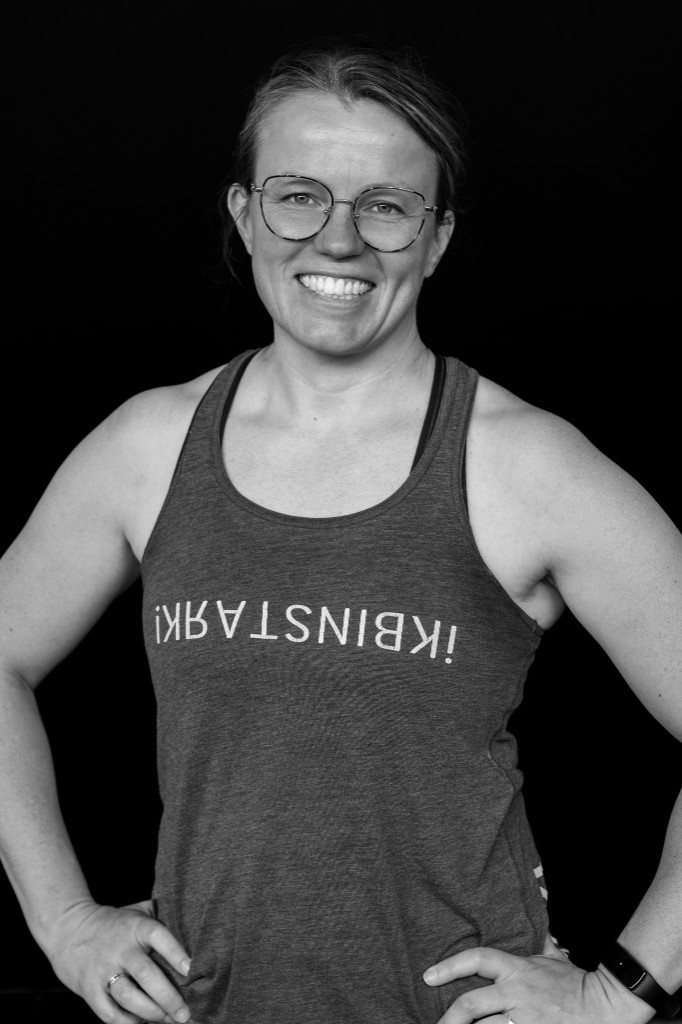
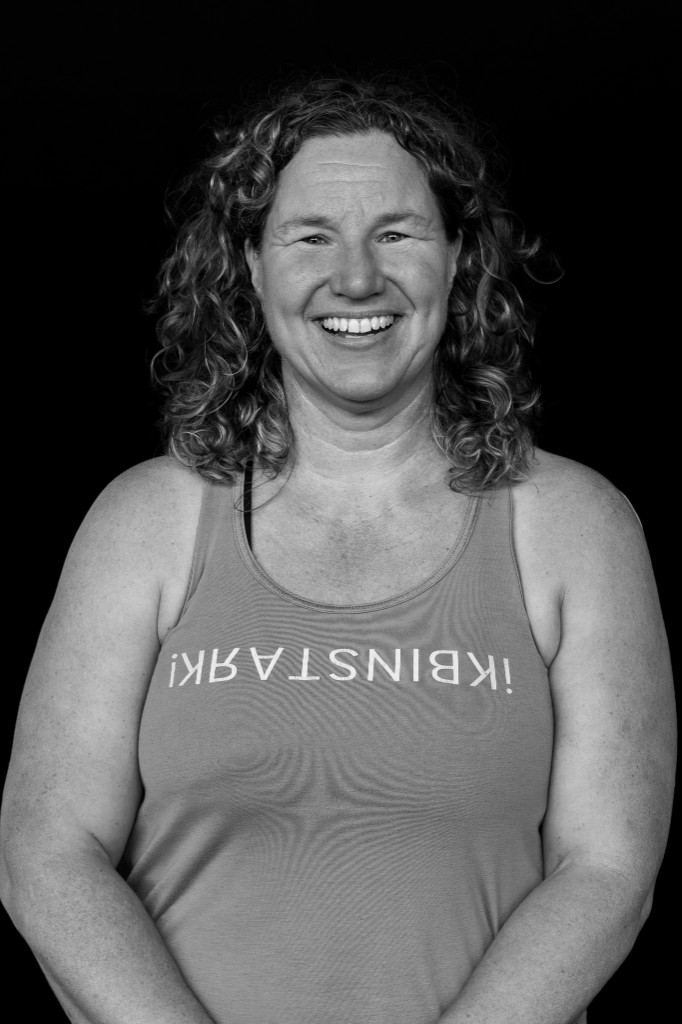
team: portretbestand hoort bij de persoon

diff --git a/app/team/team-members.ts b/app/team/team-members.ts
@@ -11,8 +11,8 @@ export type TeamMember = {
 
 export const TEAM: TeamMember[] = [
   { id: 1, name: 'Engbert-Jan', role: 'Eigenaar, coach en trainer', photo: '/images/team/engbert-jan.png', objectPosition: '50% 32%', quote: 'Excuses en resultaten passen niet in dezelfde hand.' },
-  { id: 2, name: 'Yvonne', role: 'Eigenaar, coach en trainer', photo: '/images/team/anne.png', objectPosition: '50% 32%', quote: 'Je begint door te beginnen.' },
-  { id: 3, name: 'Anne', role: 'Trainer', photo: '/images/team/yvonne.png', objectPosition: '50% 30%', quote: 'Comfort staat groei in de weg. Ga het oncomfortabele aan en groei!' },
+  { id: 2, name: 'Yvonne', role: 'Eigenaar, coach en trainer', photo: '/images/team/yvonne.png', objectPosition: '50% 32%', quote: 'Je begint door te beginnen.' },
+  { id: 3, name: 'Anne', role: 'Trainer', photo: '/images/team/anne.png', objectPosition: '50% 30%', quote: 'Comfort staat groei in de weg. Ga het oncomfortabele aan en groei!' },
   { id: 4, name: 'Els', role: 'Trainer', photo: '/images/team/els.jpg', objectPosition: '50% 34%', quote: 'Alleen ben je STARK!, samen zijn we STARKER.' },
   { id: 5, name: 'Yoeri', role: 'Trainer', photo: '/images/team/yoeri-bw.jpg', objectPosition: '50% 50%', photoUnfiltered: true, quote: 'Bewegen is al winst. Hard trainen is nog meer winst.' },
   { id: 6, name: 'Marinus', role: 'Trainer', photo: '/images/team/marinus-bw.jpg', objectPosition: '50% 34%', quote: 'Het leven begint aan het einde van je comfortzone.' },
